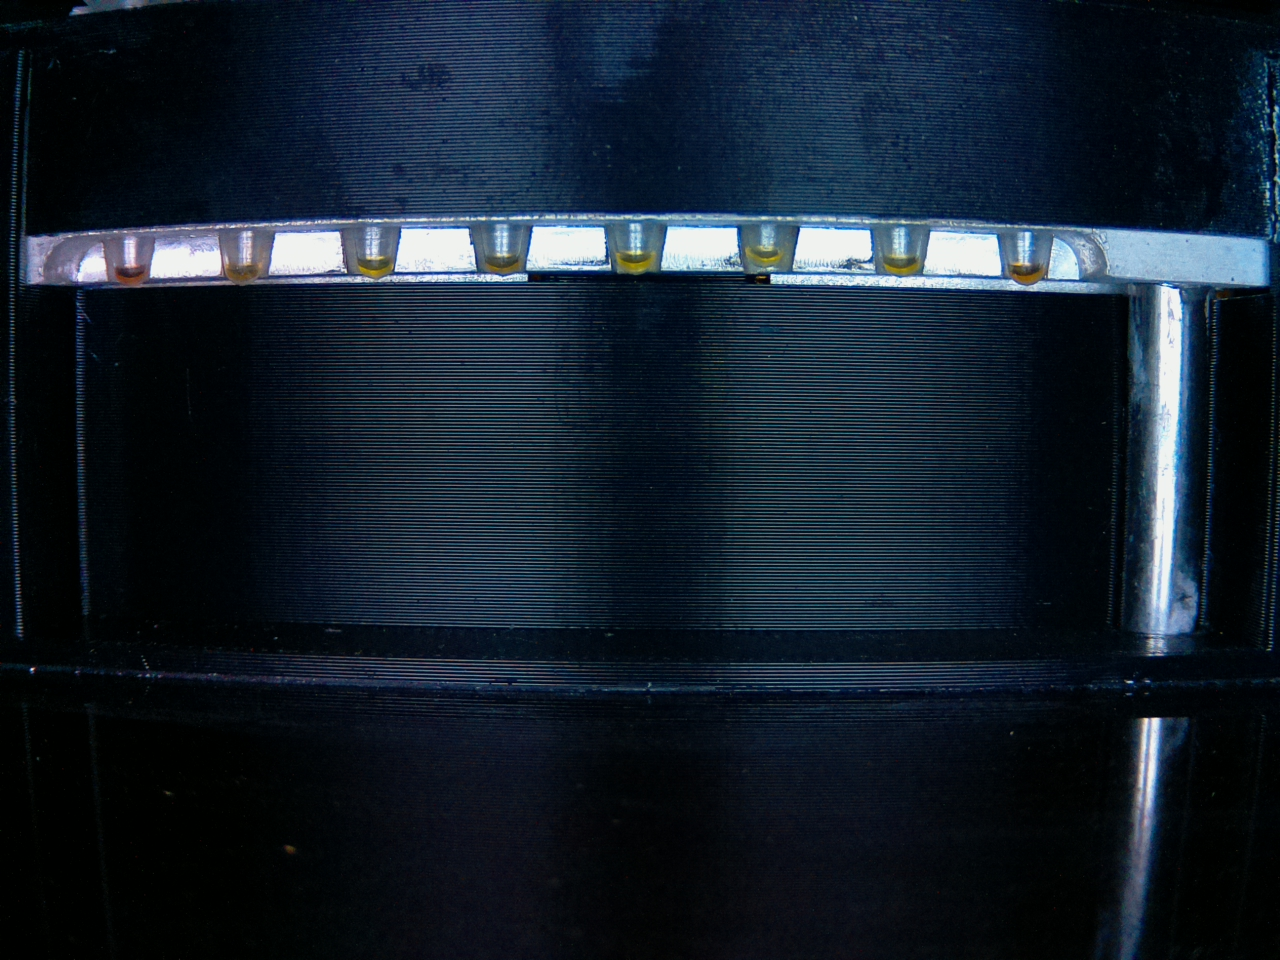
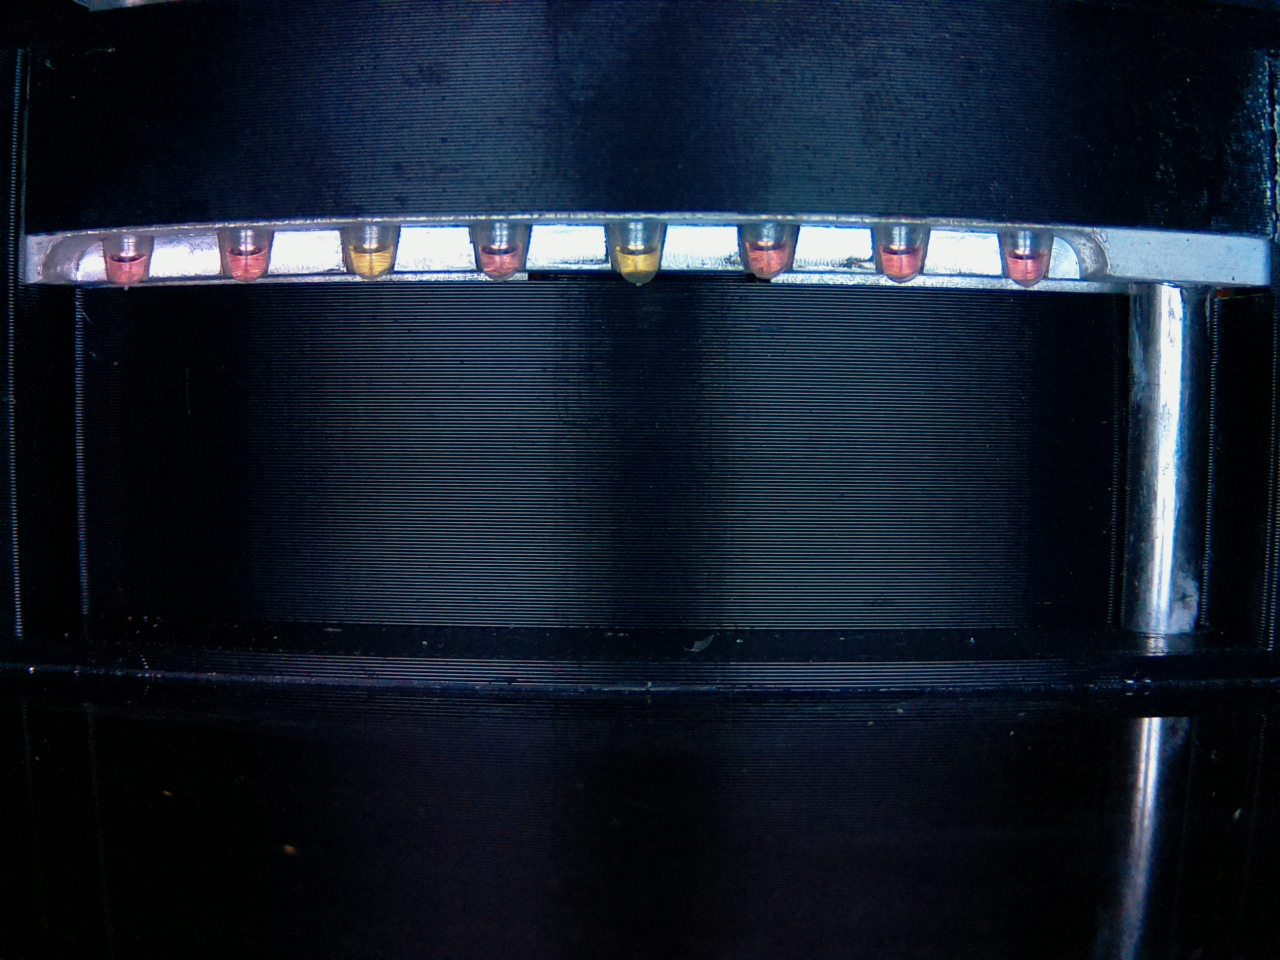
hạ ngưỡng hue xuống 100 và sửa lỗi tải ảnh (thêm datetime)

diff --git a/testtubenew-v4.py b/testtubenew-v4.py
@@ -40,7 +40,7 @@ elapsed_time = 0
 last_five_hues_n = []  # Store the last 5 hues for Tube N
 
 C_COMPARATOR = 1.4
-HUE_CONCLUSION_COMPARATOR = 110
+HUE_CONCLUSION_COMPARATOR = 100
 ORANGE_OFFSET = 20
 VALID_PIXEL_THRESHOLD = 30  # Minimum number of valid pixels required
 CONDITION_CHECK_THRESHOLD = 3
@@ -789,70 +789,6 @@ def stop_capture_thread():
             if os.path.isfile(file_path):
                 os.remove(file_path)
 
-# def plot_graph(columns=2, window_size=5):
-#     try:
-#         df = pd.read_csv(hue_csv_file)
-#     except pd.errors.EmptyDataError:
-#         return None  # Return None if the CSV file is empty
-
-#     if df.empty:
-#         return None  # No data available for plotting
-
-#     rows = int(np.ceil(8 / columns))  # Calculate the number of rows
-#     fig = make_subplots(rows=rows, cols=columns, subplot_titles=[f'Tube {i}' for i in range(1, 9)])
-
-#     for i in range(1, 9):
-#         if f'Tube_{i}_Hue' in df.columns:
-#             row = (i - 1) // columns + 1
-#             col = (i - 1) % columns + 1
-#             x_values = pd.to_datetime(df['Timestamp'])
-
-#             # Convert y_values to numeric, coercing errors and handling NaN values
-#             y_values = pd.to_numeric(df[f'Tube_{i}_Hue'], errors='coerce').fillna(0)  # Convert to numeric and handle NaN
-            
-#             # Apply a moving average to smooth the curve
-#             y_smooth = y_values.rolling(window=window_size, min_periods=1).mean()
-
-#             # Add trace for the smoothed curve
-#             fig.add_trace(
-#                 go.Scatter(
-#                     x=x_values,
-#                     y=y_smooth,
-#                     mode='lines',
-#                     name=f'Tube_{i}_Hue (Smoothed)',
-#                     line=dict(color='orange')
-#                 ),
-#                 row=row, col=col
-#             )
-
-#     # Update layout with annotations adjusted to prevent overlap
-#     annotations = []
-#     for i, annotation in enumerate(fig['layout']['annotations']):
-#         annotations.append(
-#             dict(
-#                 text=annotation['text'],
-#                 x=annotation['x'] - (0.2 / columns),  # Adjust the x position based on columns
-#                 y=annotation['y'],  # Adjust the y position to prevent overlap
-#                 xref='paper',
-#                 yref='paper',
-#                 showarrow=False,
-#                 align='left',  # Ensure text is aligned left
-#                 xanchor='left'  # Anchor text to the left
-#             )
-#         )
-#     fig.update_yaxes(range=[0, 170], row='all', col='all')  # This sets Y-axis range across all subplots
-
-#     fig.update_layout(
-#         height=rows * 300,
-#         showlegend=False,
-#         annotations=annotations,
-#         margin=dict(l=5, r=5, t=50, b=10),  # Adjust margins for mobile view
-#         autosize=True,  # Let the plot automatically size itself
-#         plot_bgcolor='lightgrey',  # Set the plot background color to light grey
-#         paper_bgcolor='lightgrey',  # Set the paper (outside plot area) background color to grey
-#     )
-
-#     return {"data": fig['data'], "layout": fig['layout']}
 
 def plot_graph(columns=2, window_size=5):
     try:
@@ -1097,7 +1033,7 @@ def download_CSV():
 @app.route('/download')
 def download():
     # Get today's date in the format YYYYMMDD
-    today = datetime.now().strftime("%Y%m%d")
+    today = datetime.datetime.now().strftime("%Y%m%d")
     zip_buffer = BytesIO()
     with zipfile.ZipFile(zip_buffer, 'w', zipfile.ZIP_DEFLATED) as zipf:
         for root, _, files in os.walk(image_dir):
